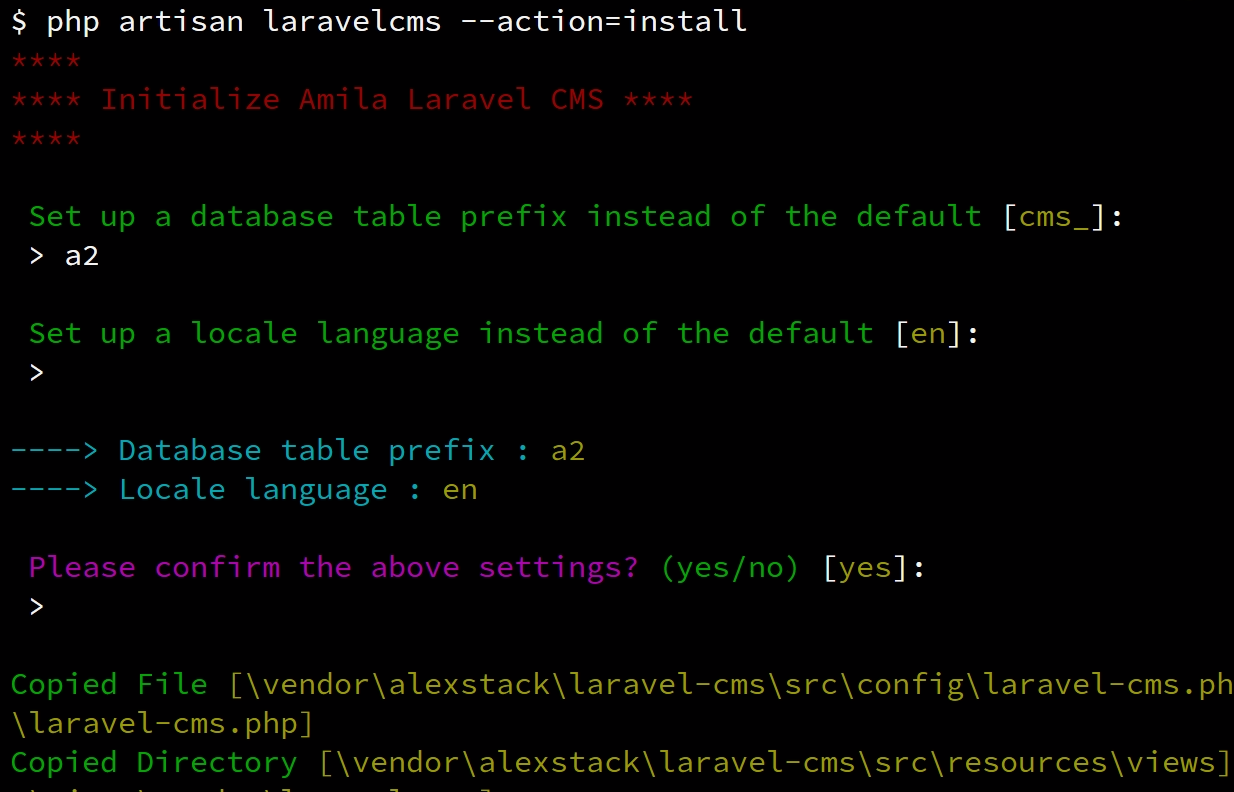
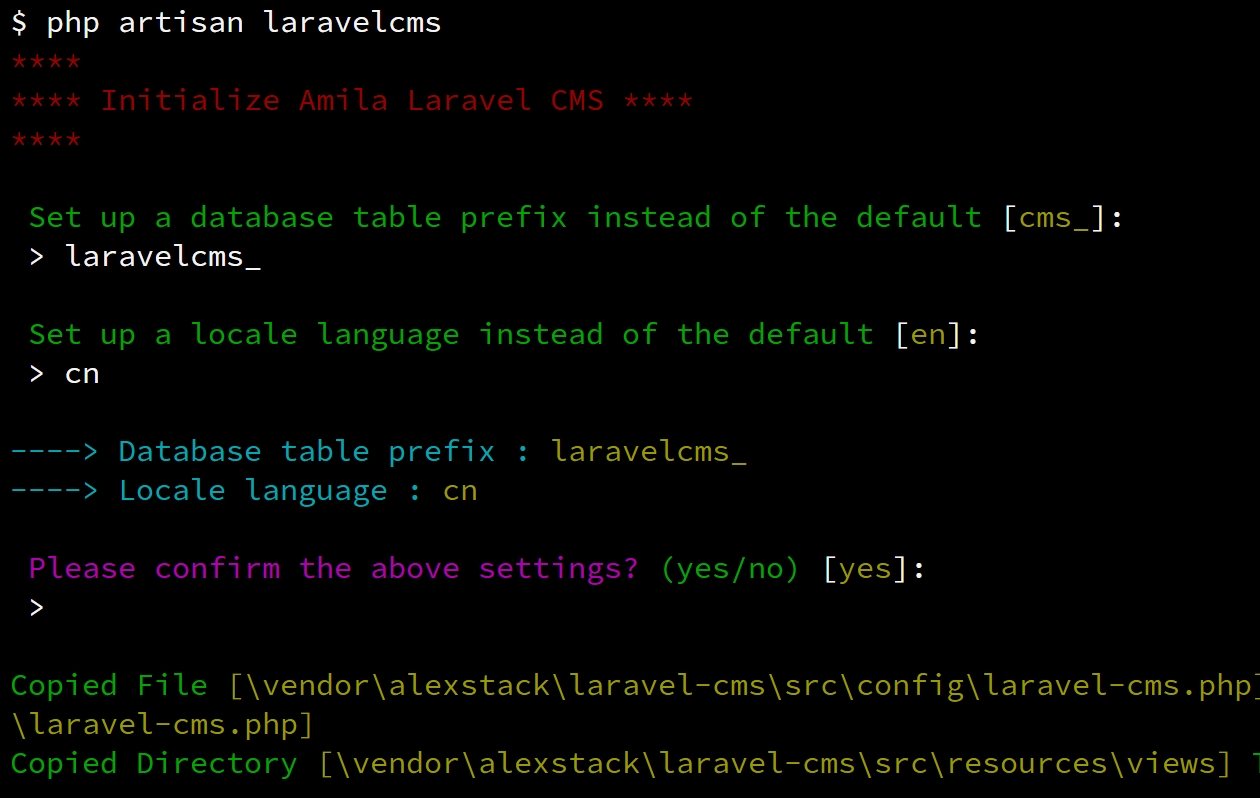
Update readme

diff --git a/README.md b/README.md
@@ -6,7 +6,7 @@
 -   Website is ready after install. Easy to use, simple enough but flexible.
 -   Basic Laravel 5.x /Laravel 6.x syntax and blade template, no need to learn a new "language"
 
-## How to install & uninstall (Require Laravel 5.x or Laravel 6.x)
+## How to install & uninstall (Support Laravel 5.x & Laravel 6.x)
 
 ```php
 // Make sure you already configured the database in the .env
@@ -38,6 +38,10 @@ php artisan laravelcms --action=uninstall
 ![image](docs/images/min/all-pages-min.png)
 ![image](docs/images/min/settings-template-min.png)
 ![image](docs/images/min/create-new-page-min.png)
+
+## Set locale language to cn insetad of en
+
+![cn_image](docs/images/min/settings-global-cn-min.png)
 
 ## Error "Route [login] not defined" while access the backend /cmsadmin
 
